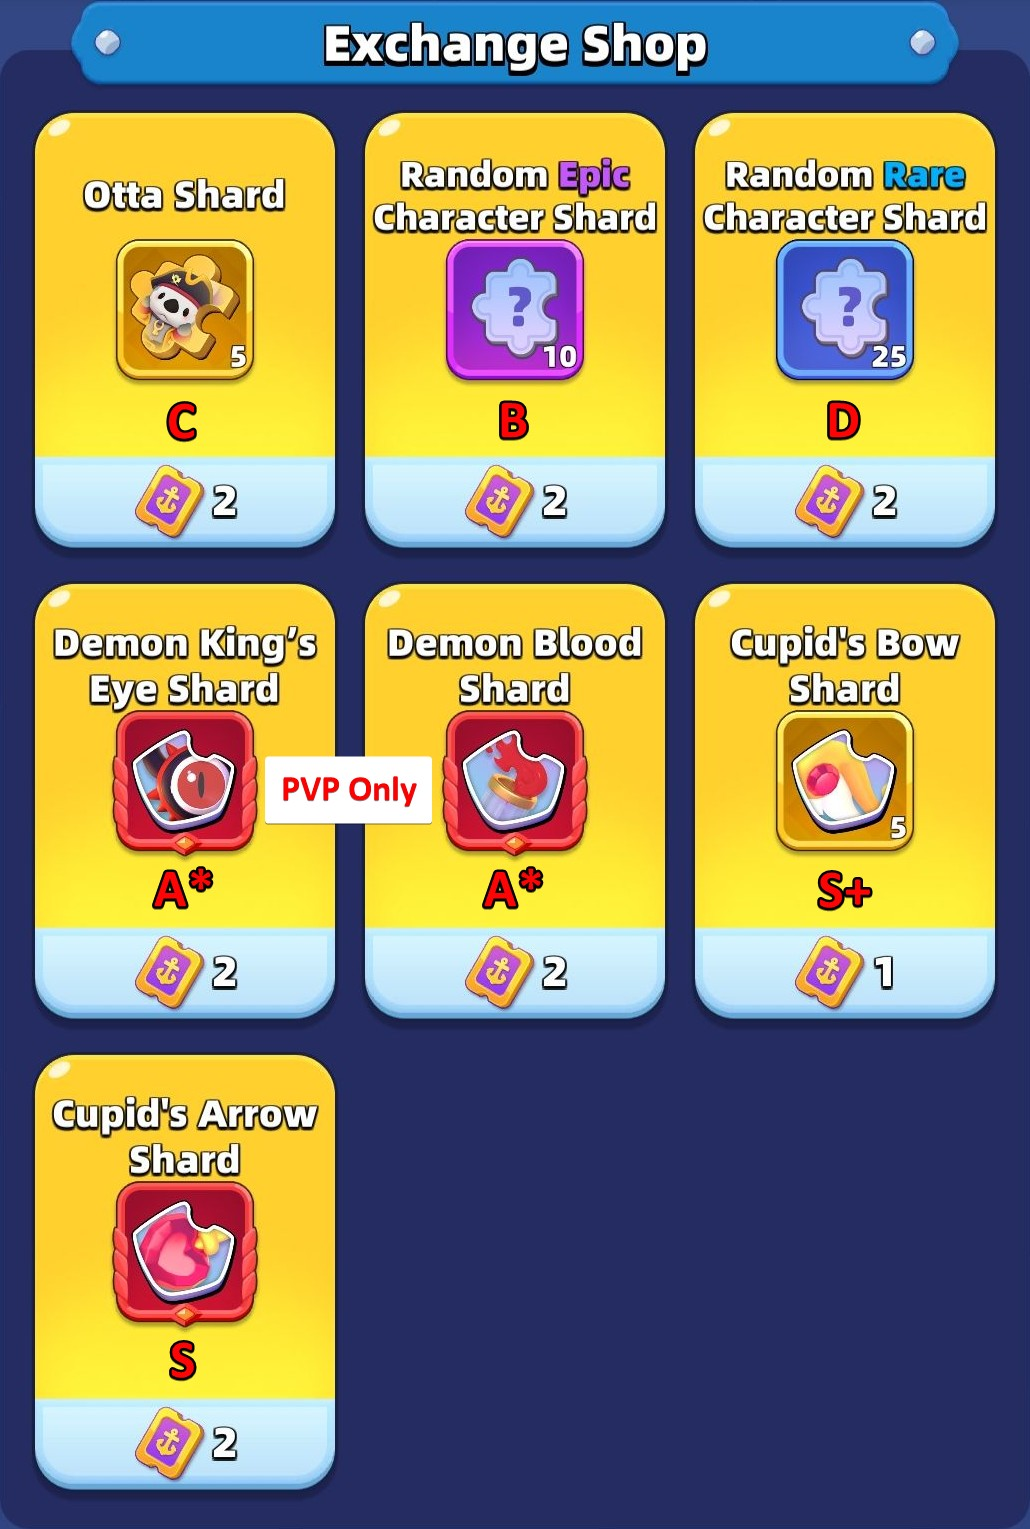
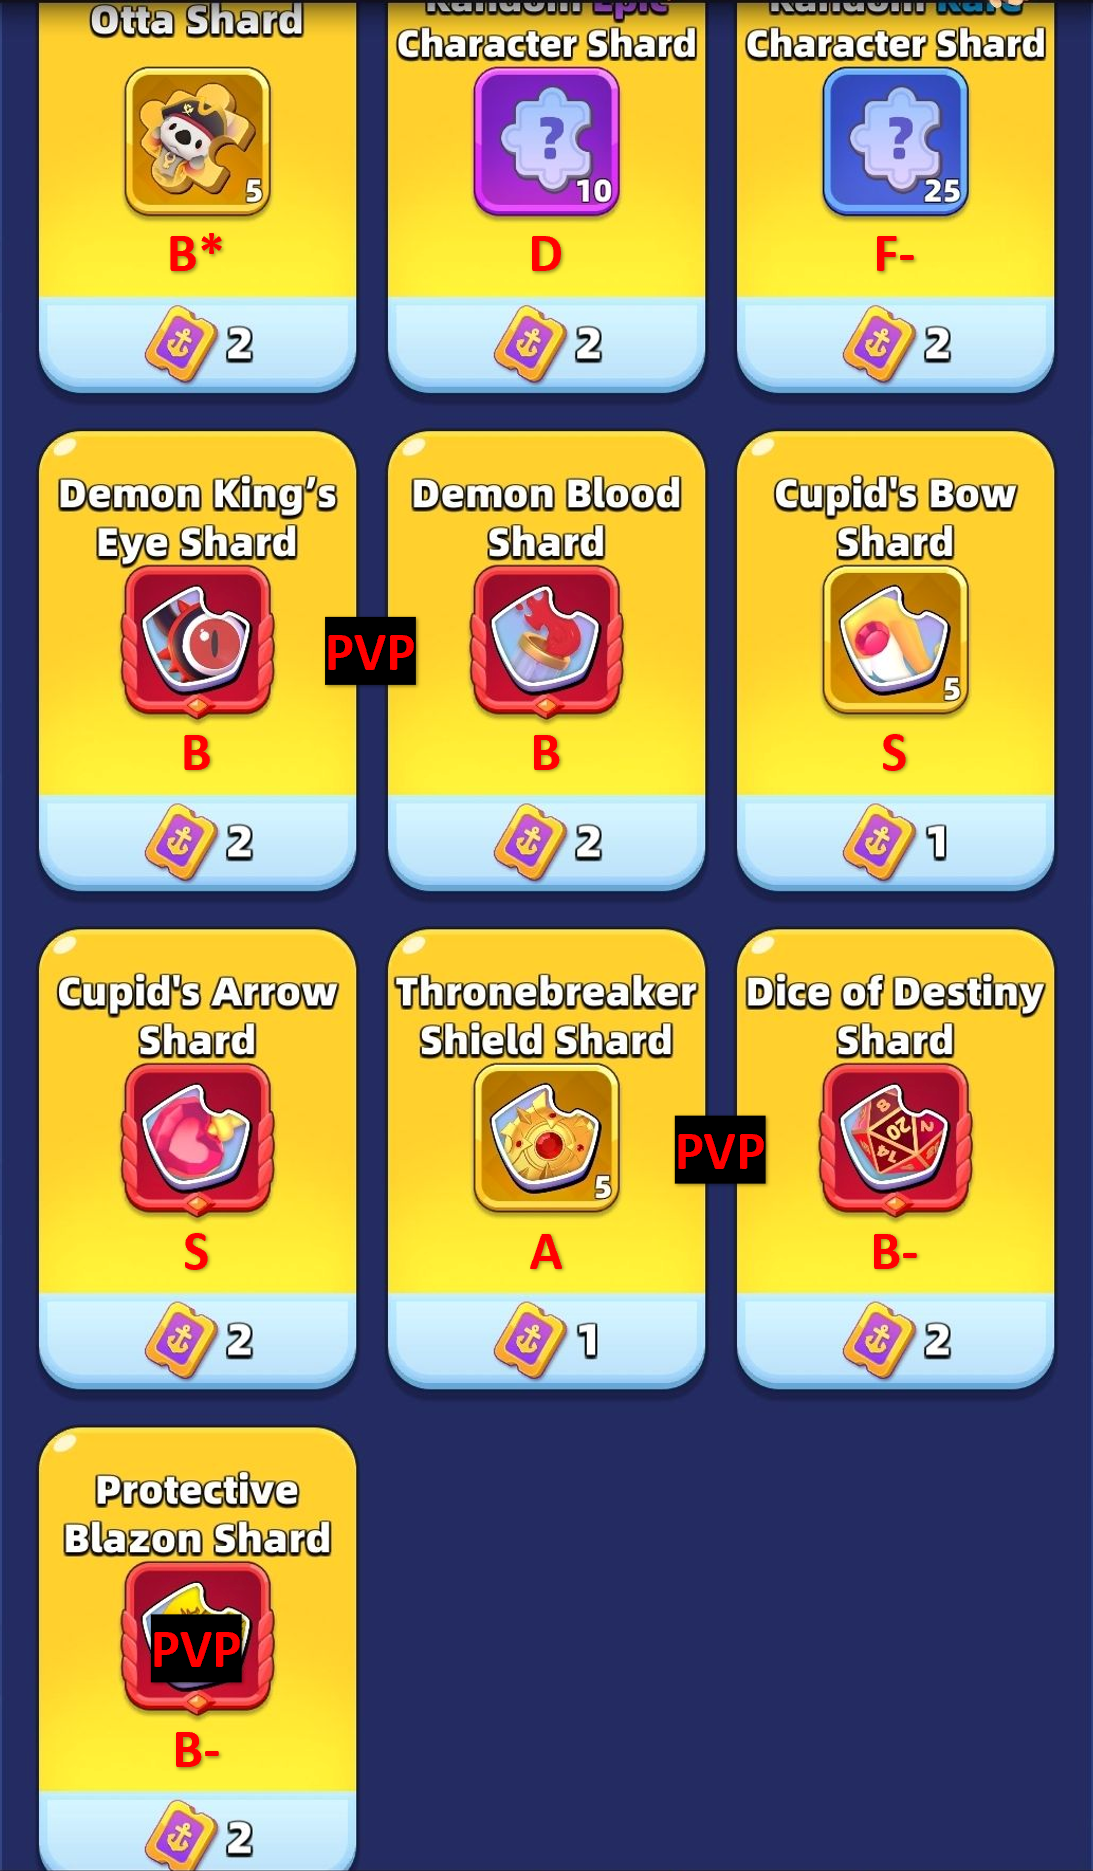
Update shop

diff --git a/src/components/FaqContent.tsx b/src/components/FaqContent.tsx
@@ -127,13 +127,15 @@ export default function FaqContent() {
           question="What should I buy in the exchange shop?"
           answer={<>
             <div className="mb-2">
-              <OrderedList items={[
-                `Cupid's Bow: Cheap, costs only 2 tickets (was available for free during Valentine's event).`,
-                `Cupid's Arrow: Completes the set and works across all modes. Worth starring as Dragoon helmet user because of built in burn damage.`,
-                `Demon Artifacts: Only used in PVP BUT the mode offers valuable rewards,`,
-                `Epic Char Shards: A good way to get it f2p (only Seraph and Dracoola though).`,
-                `Otta Shards: Only available in this shop although he is seeing minimum resonance use only in PVP.`,
-                `Rare Char Shards: Just avoid them—they are not worth it.`,
+              <UnorderedList items={[
+                <><strong>Cupid's Bow</strong>: Cheap, cost only 2 tickets.</>,
+                <><strong>Cupid's Arrow</strong>: Completes the set and works across all modes. Worth considering getting stars as a Dragoon Helmet user.</>,
+                <><strong>Thronebreaker Shield (PVP only)</strong>: Cheap, cost only 2 tickets.</>,
+                <><strong>Demon Artifacts (PVP only)</strong>: Good effects.</>,
+                <><strong>Otta</strong>: 2-star is when he starts to shine in PVP and possibly Boss Battles. Only available in this shop and unfortunately requires a longgg-term commitment (200 shards).</>,
+                <><strong>Battle Rite Artifacts (PVP only)</strong>: Worse effect than Demons and has a meh set bonus.</>,
+                <><strong>Epic Characters</strong>: A good way to get it although pricey (only Seraph and Dracoola though).</>,
+                <><strong>Rare Characters</strong>: Just don't.</>,
               ]} />
             </div>
             <div>
